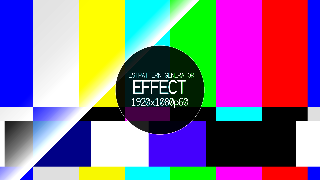
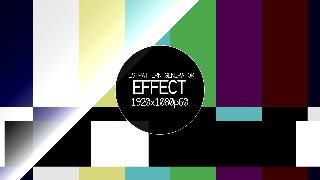
Set three effect tiles far enough from the backdrop to be read small
A tile is looked at at 92 pixels wide, in a list, for about a second. Three
of the fourteen were drawn at settings that are honest but too quiet to
survive that: Colour Correct at either version was a slightly cooler service
pattern, and RGB Split's fringe was a few pixels wide and vanished in the
shrink.

So the settings they are drawn at were pushed, and only those. Colour Correct
now pulls the saturation most of the way out and raises the contrast, which is
a grade anybody recognises; version two takes the same grade down to 2600 K so
that the warmth it adds is the visible difference between the two tiles rather
than a shade. RGB Split separates by 72 pixels on one axis, which is still a
fringe at full size and still a fringe once it is a sixth as wide.

These numbers are the tile's, not the effect's: the published defaults are
untouched and every one of them is still neutral. The test that each tile is
the effect rather than the backdrop, and that no two tiles are the same
picture, passes on the card against the redrawn files.

diff --git a/crates/ovs-renderer/src/bin/ovs-effect-pictures.rs b/crates/ovs-renderer/src/bin/ovs-effect-pictures.rs
@@ -191,7 +191,7 @@ fn mask_picture() -> Option<DecodedImage> {
 /// One effect's tile-sized picture, at the setting that shows what it does.
 fn picture_of(canvas: &mut Canvas, type_id: &str, version: u32) -> Option<DecodedImage> {
     let instance = EffectInstance {
-        parameters: settings(type_id, canvas.mask),
+        parameters: settings(type_id, version, canvas.mask),
         ..EffectInstance::new(type_id, version)
     };
 
@@ -236,22 +236,30 @@ fn picture_of(canvas: &mut Canvas, type_id: &str, version: u32) -> Option<Decode
 /// promise; these are the settings that make the difference visible in a
 /// picture 320 pixels wide, picked by eye and kept here so that the next
 /// person can see what was picked rather than infer it from a PNG.
-fn settings(type_id: &str, mask: MediaItemId) -> ParameterMap {
+fn settings(type_id: &str, version: u32, mask: MediaItemId) -> ParameterMap {
     let number = |key: &str, value: f64| (key.to_owned(), ParameterValue::Float(value));
     let flag = |key: &str, value: bool| (key.to_owned(), ParameterValue::Bool(value));
     let choice =
         |key: &str, value: &str| (key.to_owned(), ParameterValue::Choice(value.to_owned()));
 
     match type_id {
-        // Far enough from neutral to read at tile size, not so far that the
-        // bars stop being bars.
-        "ovs.colour_correct" => ParameterMap::from([
-            number("contrast", 1.5),
-            number("saturation", 2.2),
-            // Version two's own two controls. A version one manifest has no
-            // such parameters and simply ignores them.
-            number("temperature_k", 3000.0),
+        // **The colour taken out and the contrast pushed**, rather than a
+        // grade in the same direction the test card already goes: a more
+        // saturated test card looks like a test card, and the tile has to say
+        // "this one changes the grade".
+        //
+        // And version two is shown by what makes it version two — its white
+        // point, hard over to the warm end. The two versions differ by that
+        // control and by nothing else, so the two tiles should differ by it
+        // too; at 2600 K against none, they do.
+        "ovs.colour_correct" if version >= 2 => ParameterMap::from([
+            number("contrast", 1.6),
+            number("saturation", 0.3),
+            number("temperature_k", 2600.0),
         ]),
+        "ovs.colour_correct" => {
+            ParameterMap::from([number("contrast", 1.6), number("saturation", 0.3)])
+        }
         // The house orange, fully mixed, brightness kept: the tile has to show
         // a tint rather than a wash.
         "ovs.tint" => ParameterMap::from([
@@ -295,9 +303,11 @@ fn settings(type_id: &str, mask: MediaItemId) -> ParameterMap {
         ]),
         // Red up and blue down: a cast that cannot be mistaken for a grade.
         "ovs.rgb_correct" => ParameterMap::from([number("gain_r", 1.8), number("gain_b", 0.45)]),
-        // Far enough apart to see three edges where there was one.
+        // Far enough apart to see three edges where there was one. At a
+        // sixth of the size, twenty-eight pixels of separation came back as
+        // four and read as a soft edge rather than as a split.
         "ovs.rgb_split" => {
-            ParameterMap::from([number("offset_px", 28.0), number("angle_deg", 0.0)])
+            ParameterMap::from([number("offset_px", 72.0), number("angle_deg", 0.0)])
         }
         // An effect nobody has written a setting for yet draws at its defaults,
         // which is honest: its tile is the reference picture, and that says
